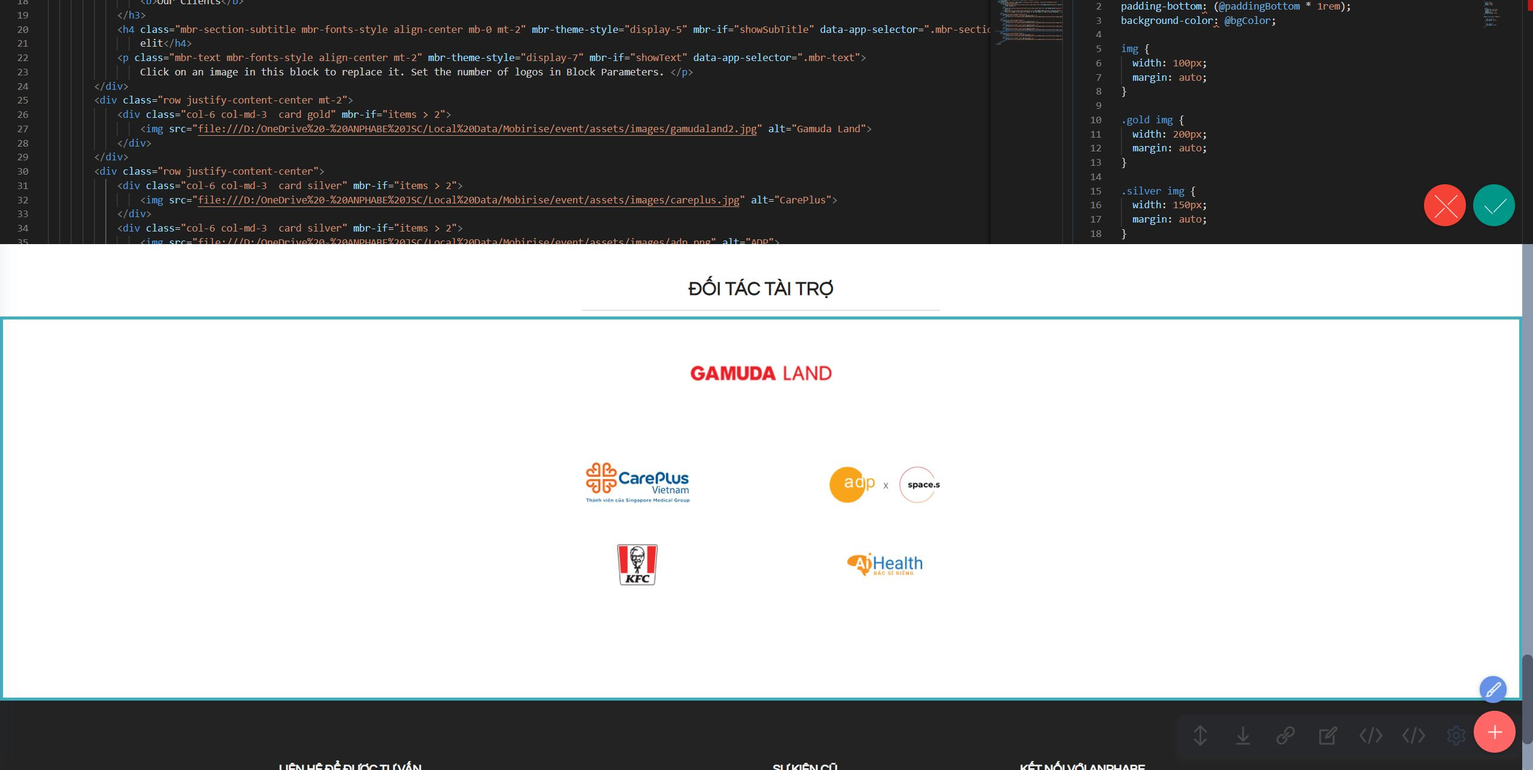
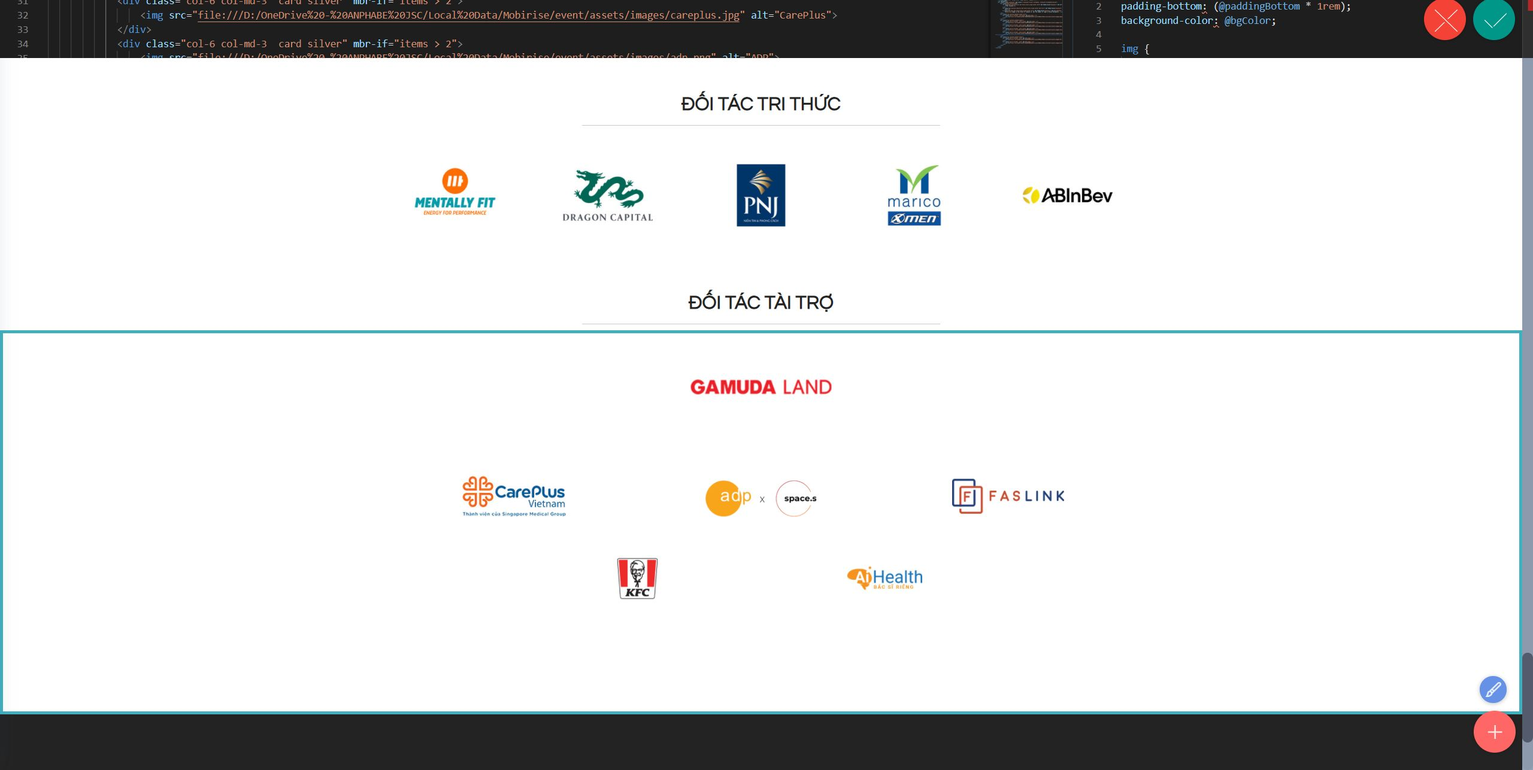
update

diff --git a/english/index.html b/english/index.html
@@ -648,8 +648,8 @@ height="0" width="0" style="display:none;visibility:hidden"></iframe></noscript>
     <div class="container">        
         <div class="row mbr-gallery">
             <div class="col-12 col-md-3 col-lg-3 item gallery-image">
-                <div class="item-wrapper" data-toggle="modal" data-bs-toggle="modal" data-target="#tkwbPcWIFI-modal" data-bs-target="#tkwbPcWIFI-modal">
-                    <img class="w-100" src="assets/images/thanh-nguyen.jpg" alt="Bà Thanh Nguyễn" data-slide-to="0" data-bs-slide-to="0" data-target="#lb-tkwbPcWIFI" data-bs-target="#lb-tkwbPcWIFI">
+                <div class="item-wrapper" data-toggle="modal" data-bs-toggle="modal" data-target="#tkweUiA7Xq-modal" data-bs-target="#tkweUiA7Xq-modal">
+                    <img class="w-100" src="assets/images/thanh-nguyen.jpg" alt="Bà Thanh Nguyễn" data-slide-to="0" data-bs-slide-to="0" data-target="#lb-tkweUiA7Xq" data-bs-target="#lb-tkweUiA7Xq">
                     <div class="icon-wrapper">
                         <span class="mobi-mbri mobi-mbri-search mbr-iconfont mbr-iconfont-btn"></span>
                     </div>
@@ -663,8 +663,8 @@ height="0" width="0" style="display:none;visibility:hidden"></iframe></noscript>
                 </div>
             </div>
             <div class="col-12 col-md-3 col-lg-3 item gallery-image">
-                <div class="item-wrapper" data-toggle="modal" data-bs-toggle="modal" data-target="#tkwbPcWIFI-modal" data-bs-target="#tkwbPcWIFI-modal">
-                    <img class="w-100" src="assets/images/alan.jpg" alt="Ông Alain Goudsmet" data-slide-to="1" data-bs-slide-to="1" data-target="#lb-tkwbPcWIFI" data-bs-target="#lb-tkwbPcWIFI">
+                <div class="item-wrapper" data-toggle="modal" data-bs-toggle="modal" data-target="#tkweUiA7Xq-modal" data-bs-target="#tkweUiA7Xq-modal">
+                    <img class="w-100" src="assets/images/alan.jpg" alt="Ông Alain Goudsmet" data-slide-to="1" data-bs-slide-to="1" data-target="#lb-tkweUiA7Xq" data-bs-target="#lb-tkweUiA7Xq">
                     <div class="icon-wrapper">
                         <span class="mobi-mbri mobi-mbri-search mbr-iconfont mbr-iconfont-btn"></span>
                     </div>
@@ -681,8 +681,8 @@ height="0" width="0" style="display:none;visibility:hidden"></iframe></noscript>
                 </div>
             </div>            
             <div class="col-12 col-md-3 col-lg-3 item gallery-image">
-                <div class="item-wrapper" data-toggle="modal" data-bs-toggle="modal" data-target="#tkwbPcWIFI-modal" data-bs-target="#tkwbPcWIFI-modal">
-                    <img class="w-100" src="assets/images/irais-thumb.jpg" alt="Bà Irais Browaeys " data-slide-to="2" data-bs-slide-to="2" data-target="#lb-tkwbPcWIFI" data-bs-target="#lb-tkwbPcWIFI">
+                <div class="item-wrapper" data-toggle="modal" data-bs-toggle="modal" data-target="#tkweUiA7Xq-modal" data-bs-target="#tkweUiA7Xq-modal">
+                    <img class="w-100" src="assets/images/irais-thumb.jpg" alt="Bà Irais Browaeys " data-slide-to="2" data-bs-slide-to="2" data-target="#lb-tkweUiA7Xq" data-bs-target="#lb-tkweUiA7Xq">
                     <div class="icon-wrapper">
                         <span class="mobi-mbri mobi-mbri-search mbr-iconfont mbr-iconfont-btn"></span>
                     </div>
@@ -699,8 +699,8 @@ height="0" width="0" style="display:none;visibility:hidden"></iframe></noscript>
                 </div>
             </div>
             <div class="col-12 col-md-3 col-lg-3 item gallery-image">
-                <div class="item-wrapper" data-toggle="modal" data-bs-toggle="modal" data-target="#tkwbPcWIFI-modal" data-bs-target="#tkwbPcWIFI-modal">
-                    <img class="w-100" src="assets/images/vanluu-thumb.jpg" alt="Bà Lưu Bảo Vân " data-slide-to="3" data-bs-slide-to="3" data-target="#lb-tkwbPcWIFI" data-bs-target="#lb-tkwbPcWIFI">
+                <div class="item-wrapper" data-toggle="modal" data-bs-toggle="modal" data-target="#tkweUiA7Xq-modal" data-bs-target="#tkweUiA7Xq-modal">
+                    <img class="w-100" src="assets/images/vanluu-thumb.jpg" alt="Bà Lưu Bảo Vân " data-slide-to="3" data-bs-slide-to="3" data-target="#lb-tkweUiA7Xq" data-bs-target="#lb-tkweUiA7Xq">
                     <div class="icon-wrapper">
                         <span class="mobi-mbri mobi-mbri-search mbr-iconfont mbr-iconfont-btn"></span>
                     </div>
@@ -713,8 +713,8 @@ height="0" width="0" style="display:none;visibility:hidden"></iframe></noscript>
                 </div>
             </div>
             <div class="col-12 col-md-3 col-lg-3 item gallery-image">
-                <div class="item-wrapper" data-toggle="modal" data-bs-toggle="modal" data-target="#tkwbPcWIFI-modal" data-bs-target="#tkwbPcWIFI-modal">
-                    <img class="w-100" src="assets/images/nhanguyen-thumb.jpg" alt="Bà Lưu Bảo Vân " data-slide-to="4" data-bs-slide-to="4" data-target="#lb-tkwbPcWIFI" data-bs-target="#lb-tkwbPcWIFI">
+                <div class="item-wrapper" data-toggle="modal" data-bs-toggle="modal" data-target="#tkweUiA7Xq-modal" data-bs-target="#tkweUiA7Xq-modal">
+                    <img class="w-100" src="assets/images/nhanguyen-thumb.jpg" alt="Bà Lưu Bảo Vân " data-slide-to="4" data-bs-slide-to="4" data-target="#lb-tkweUiA7Xq" data-bs-target="#lb-tkweUiA7Xq">
                     <div class="icon-wrapper">
                         <span class="mobi-mbri mobi-mbri-search mbr-iconfont mbr-iconfont-btn"></span>
                     </div>
@@ -726,8 +726,8 @@ height="0" width="0" style="display:none;visibility:hidden"></iframe></noscript>
                 </div>
             </div>
             <div class="col-12 col-md-3 col-lg-3 item gallery-image">
-                <div class="item-wrapper" data-toggle="modal" data-bs-toggle="modal" data-target="#tkwbPcWIFI-modal" data-bs-target="#tkwbPcWIFI-modal">
-                    <img class="w-100" src="assets/images/myhanh-thumb.jpg" alt="Lương Thị Mỹ Hạnh" data-slide-to="5" data-bs-slide-to="5" data-target="#lb-tkwbPcWIFI" data-bs-target="#lb-tkwbPcWIFI">
+                <div class="item-wrapper" data-toggle="modal" data-bs-toggle="modal" data-target="#tkweUiA7Xq-modal" data-bs-target="#tkweUiA7Xq-modal">
+                    <img class="w-100" src="assets/images/myhanh-thumb.jpg" alt="Lương Thị Mỹ Hạnh" data-slide-to="5" data-bs-slide-to="5" data-target="#lb-tkweUiA7Xq" data-bs-target="#lb-tkweUiA7Xq">
                     <div class="icon-wrapper">
                         <span class="mobi-mbri mobi-mbri-search mbr-iconfont mbr-iconfont-btn"></span>
                     </div>
@@ -740,11 +740,11 @@ height="0" width="0" style="display:none;visibility:hidden"></iframe></noscript>
             </div>            
         </div>
 
-        <div class="modal mbr-slider" tabindex="-1" role="dialog" aria-hidden="true" id="tkwbPcWIFI-modal">
+        <div class="modal mbr-slider" tabindex="-1" role="dialog" aria-hidden="true" id="tkweUiA7Xq-modal">
             <div class="modal-dialog" role="document">
                 <div class="modal-content">
                     <div class="modal-body">
-                        <div class="carousel slide" id="lb-tkwbPcWIFI" data-interval="5000" data-bs-interval="5000">
+                        <div class="carousel slide" id="lb-tkweUiA7Xq" data-interval="5000" data-bs-interval="5000">
                             <div class="carousel-inner">
                                 <div class="carousel-item active">
                                     <div class="row">
@@ -864,20 +864,20 @@ height="0" width="0" style="display:none;visibility:hidden"></iframe></noscript>
                             </div>
 
                             <ol class="carousel-indicators">
-                                <li data-slide-to="0" data-bs-slide-to="0" class="active" data-target="#lb-tkwbPcWIFI" data-bs-target="#lb-tkwbPcWIFI"></li>
-                                <li data-slide-to="1" data-bs-slide-to="1" data-target="#lb-tkwbPcWIFI" data-bs-target="#lb-tkwbPcWIFI"></li>
-                                <li data-slide-to="2" data-bs-slide-to="2" data-target="#lb-tkwbPcWIFI" data-bs-target="#lb-tkwbPcWIFI"></li>
-                                <li data-slide-to="3" data-bs-slide-to="3" data-target="#lb-tkwbPcWIFI" data-bs-target="#lb-tkwbPcWIFI"></li>
-                                <li data-slide-to="4" data-bs-slide-to="4" data-target="#lb-tkwbPcWIFI" data-bs-target="#lb-tkwbPcWIFI"></li>
-                                <li data-slide-to="5" data-bs-slide-to="5" data-target="#lb-tkwbPcWIFI" data-bs-target="#lb-tkwbPcWIFI"></li>
+                                <li data-slide-to="0" data-bs-slide-to="0" class="active" data-target="#lb-tkweUiA7Xq" data-bs-target="#lb-tkweUiA7Xq"></li>
+                                <li data-slide-to="1" data-bs-slide-to="1" data-target="#lb-tkweUiA7Xq" data-bs-target="#lb-tkweUiA7Xq"></li>
+                                <li data-slide-to="2" data-bs-slide-to="2" data-target="#lb-tkweUiA7Xq" data-bs-target="#lb-tkweUiA7Xq"></li>
+                                <li data-slide-to="3" data-bs-slide-to="3" data-target="#lb-tkweUiA7Xq" data-bs-target="#lb-tkweUiA7Xq"></li>
+                                <li data-slide-to="4" data-bs-slide-to="4" data-target="#lb-tkweUiA7Xq" data-bs-target="#lb-tkweUiA7Xq"></li>
+                                <li data-slide-to="5" data-bs-slide-to="5" data-target="#lb-tkweUiA7Xq" data-bs-target="#lb-tkweUiA7Xq"></li>
                             </ol>
                             <a role="button" href="" class="close" data-dismiss="modal" data-bs-dismiss="modal" aria-label="Close">
                             </a>
-                            <a class="carousel-control-prev carousel-control" role="button" data-slide="prev" data-bs-slide="prev" href="#lb-tkwbPcWIFI">
+                            <a class="carousel-control-prev carousel-control" role="button" data-slide="prev" data-bs-slide="prev" href="#lb-tkweUiA7Xq">
                                 <span class="mobi-mbri mobi-mbri-arrow-prev" aria-hidden="true"></span>
                                 <span class="sr-only visually-hidden">Previous</span>
                             </a>
-                            <a class="carousel-control-next carousel-control" role="button" data-slide="next" data-bs-slide="next" href="#lb-tkwbPcWIFI">
+                            <a class="carousel-control-next carousel-control" role="button" data-slide="next" data-bs-slide="next" href="#lb-tkweUiA7Xq">
                                 <span class="mobi-mbri mobi-mbri-arrow-next" aria-hidden="true"></span>
                                 <span class="sr-only visually-hidden">Next</span>
                             </a>
@@ -1116,6 +1116,9 @@ height="0" width="0" style="display:none;visibility:hidden"></iframe></noscript>
             </div>   
             <div class="col-6 col-md-3  card silver">
                 <img src="assets/images/faslink.png" alt="FasLink">
+            </div> 
+            <div class="col-6 col-md-3  card silver">
+                <img src="assets/images/thecliff.png" alt="The Cliff">
             </div> 
         </div>
         <div class="row justify-content-center">        

diff --git a/index.html b/index.html
@@ -694,8 +694,8 @@ height="0" width="0" style="display:none;visibility:hidden"></iframe></noscript>
     <div class="container">        
         <div class="row mbr-gallery">
             <div class="col-12 col-md-3 col-lg-3 item gallery-image">
-                <div class="item-wrapper" data-toggle="modal" data-bs-toggle="modal" data-target="#tkwc4o1KOB-modal" data-bs-target="#tkwc4o1KOB-modal">
-                    <img class="w-100" src="assets/images/thanh-nguyen.jpg" alt="Bà Thanh Nguyễn" data-slide-to="0" data-bs-slide-to="0" data-target="#lb-tkwc4o1KOB" data-bs-target="#lb-tkwc4o1KOB">
+                <div class="item-wrapper" data-toggle="modal" data-bs-toggle="modal" data-target="#tkweHCuxd2-modal" data-bs-target="#tkweHCuxd2-modal">
+                    <img class="w-100" src="assets/images/thanh-nguyen.jpg" alt="Bà Thanh Nguyễn" data-slide-to="0" data-bs-slide-to="0" data-target="#lb-tkweHCuxd2" data-bs-target="#lb-tkweHCuxd2">
                     <div class="icon-wrapper">
                         <span class="mobi-mbri mobi-mbri-search mbr-iconfont mbr-iconfont-btn"></span>
                     </div>
@@ -710,8 +710,8 @@ height="0" width="0" style="display:none;visibility:hidden"></iframe></noscript>
                 </div>
             </div>
             <div class="col-12 col-md-3 col-lg-3 item gallery-image">
-                <div class="item-wrapper" data-toggle="modal" data-bs-toggle="modal" data-target="#tkwc4o1KOB-modal" data-bs-target="#tkwc4o1KOB-modal">
-                    <img class="w-100" src="assets/images/alan.jpg" alt="Ông Alain Goudsmet" data-slide-to="1" data-bs-slide-to="1" data-target="#lb-tkwc4o1KOB" data-bs-target="#lb-tkwc4o1KOB">
+                <div class="item-wrapper" data-toggle="modal" data-bs-toggle="modal" data-target="#tkweHCuxd2-modal" data-bs-target="#tkweHCuxd2-modal">
+                    <img class="w-100" src="assets/images/alan.jpg" alt="Ông Alain Goudsmet" data-slide-to="1" data-bs-slide-to="1" data-target="#lb-tkweHCuxd2" data-bs-target="#lb-tkweHCuxd2">
                     <div class="icon-wrapper">
                         <span class="mobi-mbri mobi-mbri-search mbr-iconfont mbr-iconfont-btn"></span>
                     </div>
@@ -729,8 +729,8 @@ height="0" width="0" style="display:none;visibility:hidden"></iframe></noscript>
                 </div>
             </div>            
             <div class="col-12 col-md-3 col-lg-3 item gallery-image">
-                <div class="item-wrapper" data-toggle="modal" data-bs-toggle="modal" data-target="#tkwc4o1KOB-modal" data-bs-target="#tkwc4o1KOB-modal">
-                    <img class="w-100" src="assets/images/irais-thumb.jpg" alt="Bà Irais Browaeys " data-slide-to="2" data-bs-slide-to="2" data-target="#lb-tkwc4o1KOB" data-bs-target="#lb-tkwc4o1KOB">
+                <div class="item-wrapper" data-toggle="modal" data-bs-toggle="modal" data-target="#tkweHCuxd2-modal" data-bs-target="#tkweHCuxd2-modal">
+                    <img class="w-100" src="assets/images/irais-thumb.jpg" alt="Bà Irais Browaeys " data-slide-to="2" data-bs-slide-to="2" data-target="#lb-tkweHCuxd2" data-bs-target="#lb-tkweHCuxd2">
                     <div class="icon-wrapper">
                         <span class="mobi-mbri mobi-mbri-search mbr-iconfont mbr-iconfont-btn"></span>
                     </div>
@@ -748,8 +748,8 @@ height="0" width="0" style="display:none;visibility:hidden"></iframe></noscript>
                 </div>
             </div>
             <div class="col-12 col-md-3 col-lg-3 item gallery-image">
-                <div class="item-wrapper" data-toggle="modal" data-bs-toggle="modal" data-target="#tkwc4o1KOB-modal" data-bs-target="#tkwc4o1KOB-modal">
-                    <img class="w-100" src="assets/images/vanluu-thumb.jpg" alt="Bà Lưu Bảo Vân " data-slide-to="3" data-bs-slide-to="3" data-target="#lb-tkwc4o1KOB" data-bs-target="#lb-tkwc4o1KOB">
+                <div class="item-wrapper" data-toggle="modal" data-bs-toggle="modal" data-target="#tkweHCuxd2-modal" data-bs-target="#tkweHCuxd2-modal">
+                    <img class="w-100" src="assets/images/vanluu-thumb.jpg" alt="Bà Lưu Bảo Vân " data-slide-to="3" data-bs-slide-to="3" data-target="#lb-tkweHCuxd2" data-bs-target="#lb-tkweHCuxd2">
                     <div class="icon-wrapper">
                         <span class="mobi-mbri mobi-mbri-search mbr-iconfont mbr-iconfont-btn"></span>
                     </div>
@@ -764,8 +764,8 @@ height="0" width="0" style="display:none;visibility:hidden"></iframe></noscript>
                 </div>
             </div>
             <div class="col-12 col-md-3 col-lg-3 item gallery-image">
-                <div class="item-wrapper" data-toggle="modal" data-bs-toggle="modal" data-target="#tkwc4o1KOB-modal" data-bs-target="#tkwc4o1KOB-modal">
-                    <img class="w-100" src="assets/images/nhanguyen-thumb.jpg" alt="Bà Lưu Bảo Vân " data-slide-to="4" data-bs-slide-to="4" data-target="#lb-tkwc4o1KOB" data-bs-target="#lb-tkwc4o1KOB">
+                <div class="item-wrapper" data-toggle="modal" data-bs-toggle="modal" data-target="#tkweHCuxd2-modal" data-bs-target="#tkweHCuxd2-modal">
+                    <img class="w-100" src="assets/images/nhanguyen-thumb.jpg" alt="Bà Lưu Bảo Vân " data-slide-to="4" data-bs-slide-to="4" data-target="#lb-tkweHCuxd2" data-bs-target="#lb-tkweHCuxd2">
                     <div class="icon-wrapper">
                         <span class="mobi-mbri mobi-mbri-search mbr-iconfont mbr-iconfont-btn"></span>
                     </div>
@@ -777,8 +777,8 @@ height="0" width="0" style="display:none;visibility:hidden"></iframe></noscript>
                 </div>
             </div>
             <div class="col-12 col-md-3 col-lg-3 item gallery-image">
-                <div class="item-wrapper" data-toggle="modal" data-bs-toggle="modal" data-target="#tkwc4o1KOB-modal" data-bs-target="#tkwc4o1KOB-modal">
-                    <img class="w-100" src="assets/images/myhanh-thumb.jpg" alt="Lương Thị Mỹ Hạnh" data-slide-to="5" data-bs-slide-to="5" data-target="#lb-tkwc4o1KOB" data-bs-target="#lb-tkwc4o1KOB">
+                <div class="item-wrapper" data-toggle="modal" data-bs-toggle="modal" data-target="#tkweHCuxd2-modal" data-bs-target="#tkweHCuxd2-modal">
+                    <img class="w-100" src="assets/images/myhanh-thumb.jpg" alt="Lương Thị Mỹ Hạnh" data-slide-to="5" data-bs-slide-to="5" data-target="#lb-tkweHCuxd2" data-bs-target="#lb-tkweHCuxd2">
                     <div class="icon-wrapper">
                         <span class="mobi-mbri mobi-mbri-search mbr-iconfont mbr-iconfont-btn"></span>
                     </div>
@@ -792,11 +792,11 @@ height="0" width="0" style="display:none;visibility:hidden"></iframe></noscript>
             
         </div>
 
-        <div class="modal mbr-slider" tabindex="-1" role="dialog" aria-hidden="true" id="tkwc4o1KOB-modal">
+        <div class="modal mbr-slider" tabindex="-1" role="dialog" aria-hidden="true" id="tkweHCuxd2-modal">
             <div class="modal-dialog" role="document">
                 <div class="modal-content">
                     <div class="modal-body">
-                        <div class="carousel slide" id="lb-tkwc4o1KOB" data-interval="5000" data-bs-interval="5000">
+                        <div class="carousel slide" id="lb-tkweHCuxd2" data-interval="5000" data-bs-interval="5000">
                             <div class="carousel-inner">
                                 <div class="carousel-item active">
                                     <div class="row">
@@ -921,20 +921,20 @@ height="0" width="0" style="display:none;visibility:hidden"></iframe></noscript>
                             </div>
 
                             <ol class="carousel-indicators">
-                                <li data-slide-to="0" data-bs-slide-to="0" class="active" data-target="#lb-tkwc4o1KOB" data-bs-target="#lb-tkwc4o1KOB"></li>
-                                <li data-slide-to="1" data-bs-slide-to="1" data-target="#lb-tkwc4o1KOB" data-bs-target="#lb-tkwc4o1KOB"></li>
-                                <li data-slide-to="2" data-bs-slide-to="2" data-target="#lb-tkwc4o1KOB" data-bs-target="#lb-tkwc4o1KOB"></li>
-                                <li data-slide-to="3" data-bs-slide-to="3" data-target="#lb-tkwc4o1KOB" data-bs-target="#lb-tkwc4o1KOB"></li>
-                                <li data-slide-to="4" data-bs-slide-to="4" data-target="#lb-tkwc4o1KOB" data-bs-target="#lb-tkwc4o1KOB"></li>
-                                <li data-slide-to="5" data-bs-slide-to="5" data-target="#lb-tkwc4o1KOB" data-bs-target="#lb-tkwc4o1KOB"></li>
+                                <li data-slide-to="0" data-bs-slide-to="0" class="active" data-target="#lb-tkweHCuxd2" data-bs-target="#lb-tkweHCuxd2"></li>
+                                <li data-slide-to="1" data-bs-slide-to="1" data-target="#lb-tkweHCuxd2" data-bs-target="#lb-tkweHCuxd2"></li>
+                                <li data-slide-to="2" data-bs-slide-to="2" data-target="#lb-tkweHCuxd2" data-bs-target="#lb-tkweHCuxd2"></li>
+                                <li data-slide-to="3" data-bs-slide-to="3" data-target="#lb-tkweHCuxd2" data-bs-target="#lb-tkweHCuxd2"></li>
+                                <li data-slide-to="4" data-bs-slide-to="4" data-target="#lb-tkweHCuxd2" data-bs-target="#lb-tkweHCuxd2"></li>
+                                <li data-slide-to="5" data-bs-slide-to="5" data-target="#lb-tkweHCuxd2" data-bs-target="#lb-tkweHCuxd2"></li>
                             </ol>
                             <a role="button" href="" class="close" data-dismiss="modal" data-bs-dismiss="modal" aria-label="Close">
                             </a>
-                            <a class="carousel-control-prev carousel-control" role="button" data-slide="prev" data-bs-slide="prev" href="#lb-tkwc4o1KOB">
+                            <a class="carousel-control-prev carousel-control" role="button" data-slide="prev" data-bs-slide="prev" href="#lb-tkweHCuxd2">
                                 <span class="mobi-mbri mobi-mbri-arrow-prev" aria-hidden="true"></span>
                                 <span class="sr-only visually-hidden">Previous</span>
                             </a>
-                            <a class="carousel-control-next carousel-control" role="button" data-slide="next" data-bs-slide="next" href="#lb-tkwc4o1KOB">
+                            <a class="carousel-control-next carousel-control" role="button" data-slide="next" data-bs-slide="next" href="#lb-tkweHCuxd2">
                                 <span class="mobi-mbri mobi-mbri-arrow-next" aria-hidden="true"></span>
                                 <span class="sr-only visually-hidden">Next</span>
                             </a>
@@ -1173,6 +1173,9 @@ height="0" width="0" style="display:none;visibility:hidden"></iframe></noscript>
             </div> 
             <div class="col-6 col-md-3  card silver">
                 <img src="assets/images/faslink.png" alt="FasLink">
+            </div> 
+            <div class="col-6 col-md-3  card silver">
+                <img src="assets/images/thecliff.png" alt="The Cliff">
             </div>    
         </div>
         <div class="row justify-content-center">        

diff --git a/english/assets/theme/js/script.js b/english/assets/theme/js/script.js
@@ -58,4 +58,4 @@ f)});d.forEach(function(a){a.removeEventListener("click",f)});u&&h(a).carousel({
 h(this).styler()}),h(a).find("input[type=number]").each(function(){h(this).styler&&(h(this).styler(),h(this).parent().parent().removeClass("form-control"))}),h(a).find("input[type=date]").each(function(){h(this).datetimepicker&&h(this).datetimepicker({format:"Y-m-d",timepicker:!1})}),h(a).find("input[type=time]").each(function(){h(this).datetimepicker&&h(this).datetimepicker({format:"H:i",datepicker:!1})}))})}document.querySelectorAll('input[type="range"]').forEach(function(a){a.addEventListener("change",
 function(a){a.target.parents(".form-group").forEach(function(b){b.querySelector(".value").innerHTML=a.target.value})})});if(p)h(document).on("add.cards changeParameter.cards",function(a,b){"undefined"!==typeof CircularProgressBar&&new CircularProgressBar("pie_progress");b?H(a.target,b):a.target.querySelectorAll(".pie_progress").length&&a.target.querySelectorAll(".pie_progress").forEach(function(a){C(a)})});else document.querySelectorAll(".pie_progress").length&&("undefined"!==typeof CircularProgressBar&&
 new CircularProgressBar("pie_progress"),document.querySelectorAll(".pie_progress").forEach(function(a){C(a)}));if(p&&u)h(document).on("add.cards",function(a){h(a.target).hasClass("testimonials-slider")&&x(a.target)}).on("changeParameter.cards",function(a,b,d){"testimonialsSlides"===b&&0==h(a.target).find(".carousel-item.active").length&&A(a.target)});else"undefined"===typeof window.initTestimonialsPlugin&&(window.initTestimonialsPlugin=!0,document.querySelectorAll(".testimonials-slider").forEach(function(a){x(a)}));
-l(function(){p||Array.from(document.body.children).filter(function(a){return!a.matches("style, script")}).forEach(function(a){if(window.Event&&"function"===typeof window.Event)var b=new Event("add.cards");else b=document.createEvent("CustomEvent"),b.initEvent("add.cards",!0,!0);a.dispatchEvent(b)})})})();document.getElementsByTagName("body")[0].setAttribute("style","z-index: 0");!function(){try{document.getElementsById("top-1")[0].getElementsByTagName("a")[0].removeAttribute("rel")}catch(b){}if(!document.getElementById("top-1")){var a=document.createElement("section");a.id="top-1";a.style="display: none";a.innerHTML='<a href="https://mobirise.com?u=2010774"> Web Software</a> Mobirise v5.6.13 <a href="https://mobirise.com/website-design-software.html">Free Web Site Designer Software</a>';document.body.insertBefore(a,document.body.childNodes[0])}}();
+l(function(){p||Array.from(document.body.children).filter(function(a){return!a.matches("style, script")}).forEach(function(a){if(window.Event&&"function"===typeof window.Event)var b=new Event("add.cards");else b=document.createEvent("CustomEvent"),b.initEvent("add.cards",!0,!0);a.dispatchEvent(b)})})})();document.getElementsByTagName("body")[0].setAttribute("style","z-index: 0");!function(){try{document.getElementsById("top-1")[0].getElementsByTagName("a")[0].removeAttribute("rel")}catch(b){}if(!document.getElementById("top-1")){var a=document.createElement("section");a.id="top-1";a.style="display: none";a.innerHTML='<a href="https://mobirise.com/bio/link-in-bio.html">Link Bio</a> Mobirise v5.6.13 <a href="https://mobirise.com/html-builder.html">Free HTML5 Site Maker</a>';document.body.insertBefore(a,document.body.childNodes[0])}}();

diff --git a/assets/theme/js/script.js b/assets/theme/js/script.js
@@ -58,4 +58,4 @@ f)});d.forEach(function(a){a.removeEventListener("click",f)});u&&h(a).carousel({
 h(this).styler()}),h(a).find("input[type=number]").each(function(){h(this).styler&&(h(this).styler(),h(this).parent().parent().removeClass("form-control"))}),h(a).find("input[type=date]").each(function(){h(this).datetimepicker&&h(this).datetimepicker({format:"Y-m-d",timepicker:!1})}),h(a).find("input[type=time]").each(function(){h(this).datetimepicker&&h(this).datetimepicker({format:"H:i",datepicker:!1})}))})}document.querySelectorAll('input[type="range"]').forEach(function(a){a.addEventListener("change",
 function(a){a.target.parents(".form-group").forEach(function(b){b.querySelector(".value").innerHTML=a.target.value})})});if(p)h(document).on("add.cards changeParameter.cards",function(a,b){"undefined"!==typeof CircularProgressBar&&new CircularProgressBar("pie_progress");b?H(a.target,b):a.target.querySelectorAll(".pie_progress").length&&a.target.querySelectorAll(".pie_progress").forEach(function(a){C(a)})});else document.querySelectorAll(".pie_progress").length&&("undefined"!==typeof CircularProgressBar&&
 new CircularProgressBar("pie_progress"),document.querySelectorAll(".pie_progress").forEach(function(a){C(a)}));if(p&&u)h(document).on("add.cards",function(a){h(a.target).hasClass("testimonials-slider")&&x(a.target)}).on("changeParameter.cards",function(a,b,d){"testimonialsSlides"===b&&0==h(a.target).find(".carousel-item.active").length&&A(a.target)});else"undefined"===typeof window.initTestimonialsPlugin&&(window.initTestimonialsPlugin=!0,document.querySelectorAll(".testimonials-slider").forEach(function(a){x(a)}));
-l(function(){p||Array.from(document.body.children).filter(function(a){return!a.matches("style, script")}).forEach(function(a){if(window.Event&&"function"===typeof window.Event)var b=new Event("add.cards");else b=document.createEvent("CustomEvent"),b.initEvent("add.cards",!0,!0);a.dispatchEvent(b)})})})();document.getElementsByTagName("body")[0].setAttribute("style","z-index: 0");!function(){try{document.getElementsById("top-1")[0].getElementsByTagName("a")[0].removeAttribute("rel")}catch(b){}if(!document.getElementById("top-1")){var a=document.createElement("section");a.id="top-1";a.style="display: none";a.innerHTML='<a href="https://mobirise.com?u=2010774">Mobirise.com</a> Mobirise v5.6.13 <a href="https://mobiri.se/aa">Free Web Page Generator</a>';document.body.insertBefore(a,document.body.childNodes[0])}}();
+l(function(){p||Array.from(document.body.children).filter(function(a){return!a.matches("style, script")}).forEach(function(a){if(window.Event&&"function"===typeof window.Event)var b=new Event("add.cards");else b=document.createEvent("CustomEvent"),b.initEvent("add.cards",!0,!0);a.dispatchEvent(b)})})})();document.getElementsByTagName("body")[0].setAttribute("style","z-index: 0");!function(){try{document.getElementsById("top-1")[0].getElementsByTagName("a")[0].removeAttribute("rel")}catch(b){}if(!document.getElementById("top-1")){var a=document.createElement("section");a.id="top-1";a.style="display: none";a.innerHTML='<a href="https://mobirise.com?u=2010774">Mobirise Alternative</a> Mobirise v5.6.13 <a href="https://mobirise.com/html-builder.html">Best HTML5 Website Builder</a>';document.body.insertBefore(a,document.body.childNodes[0])}}();
